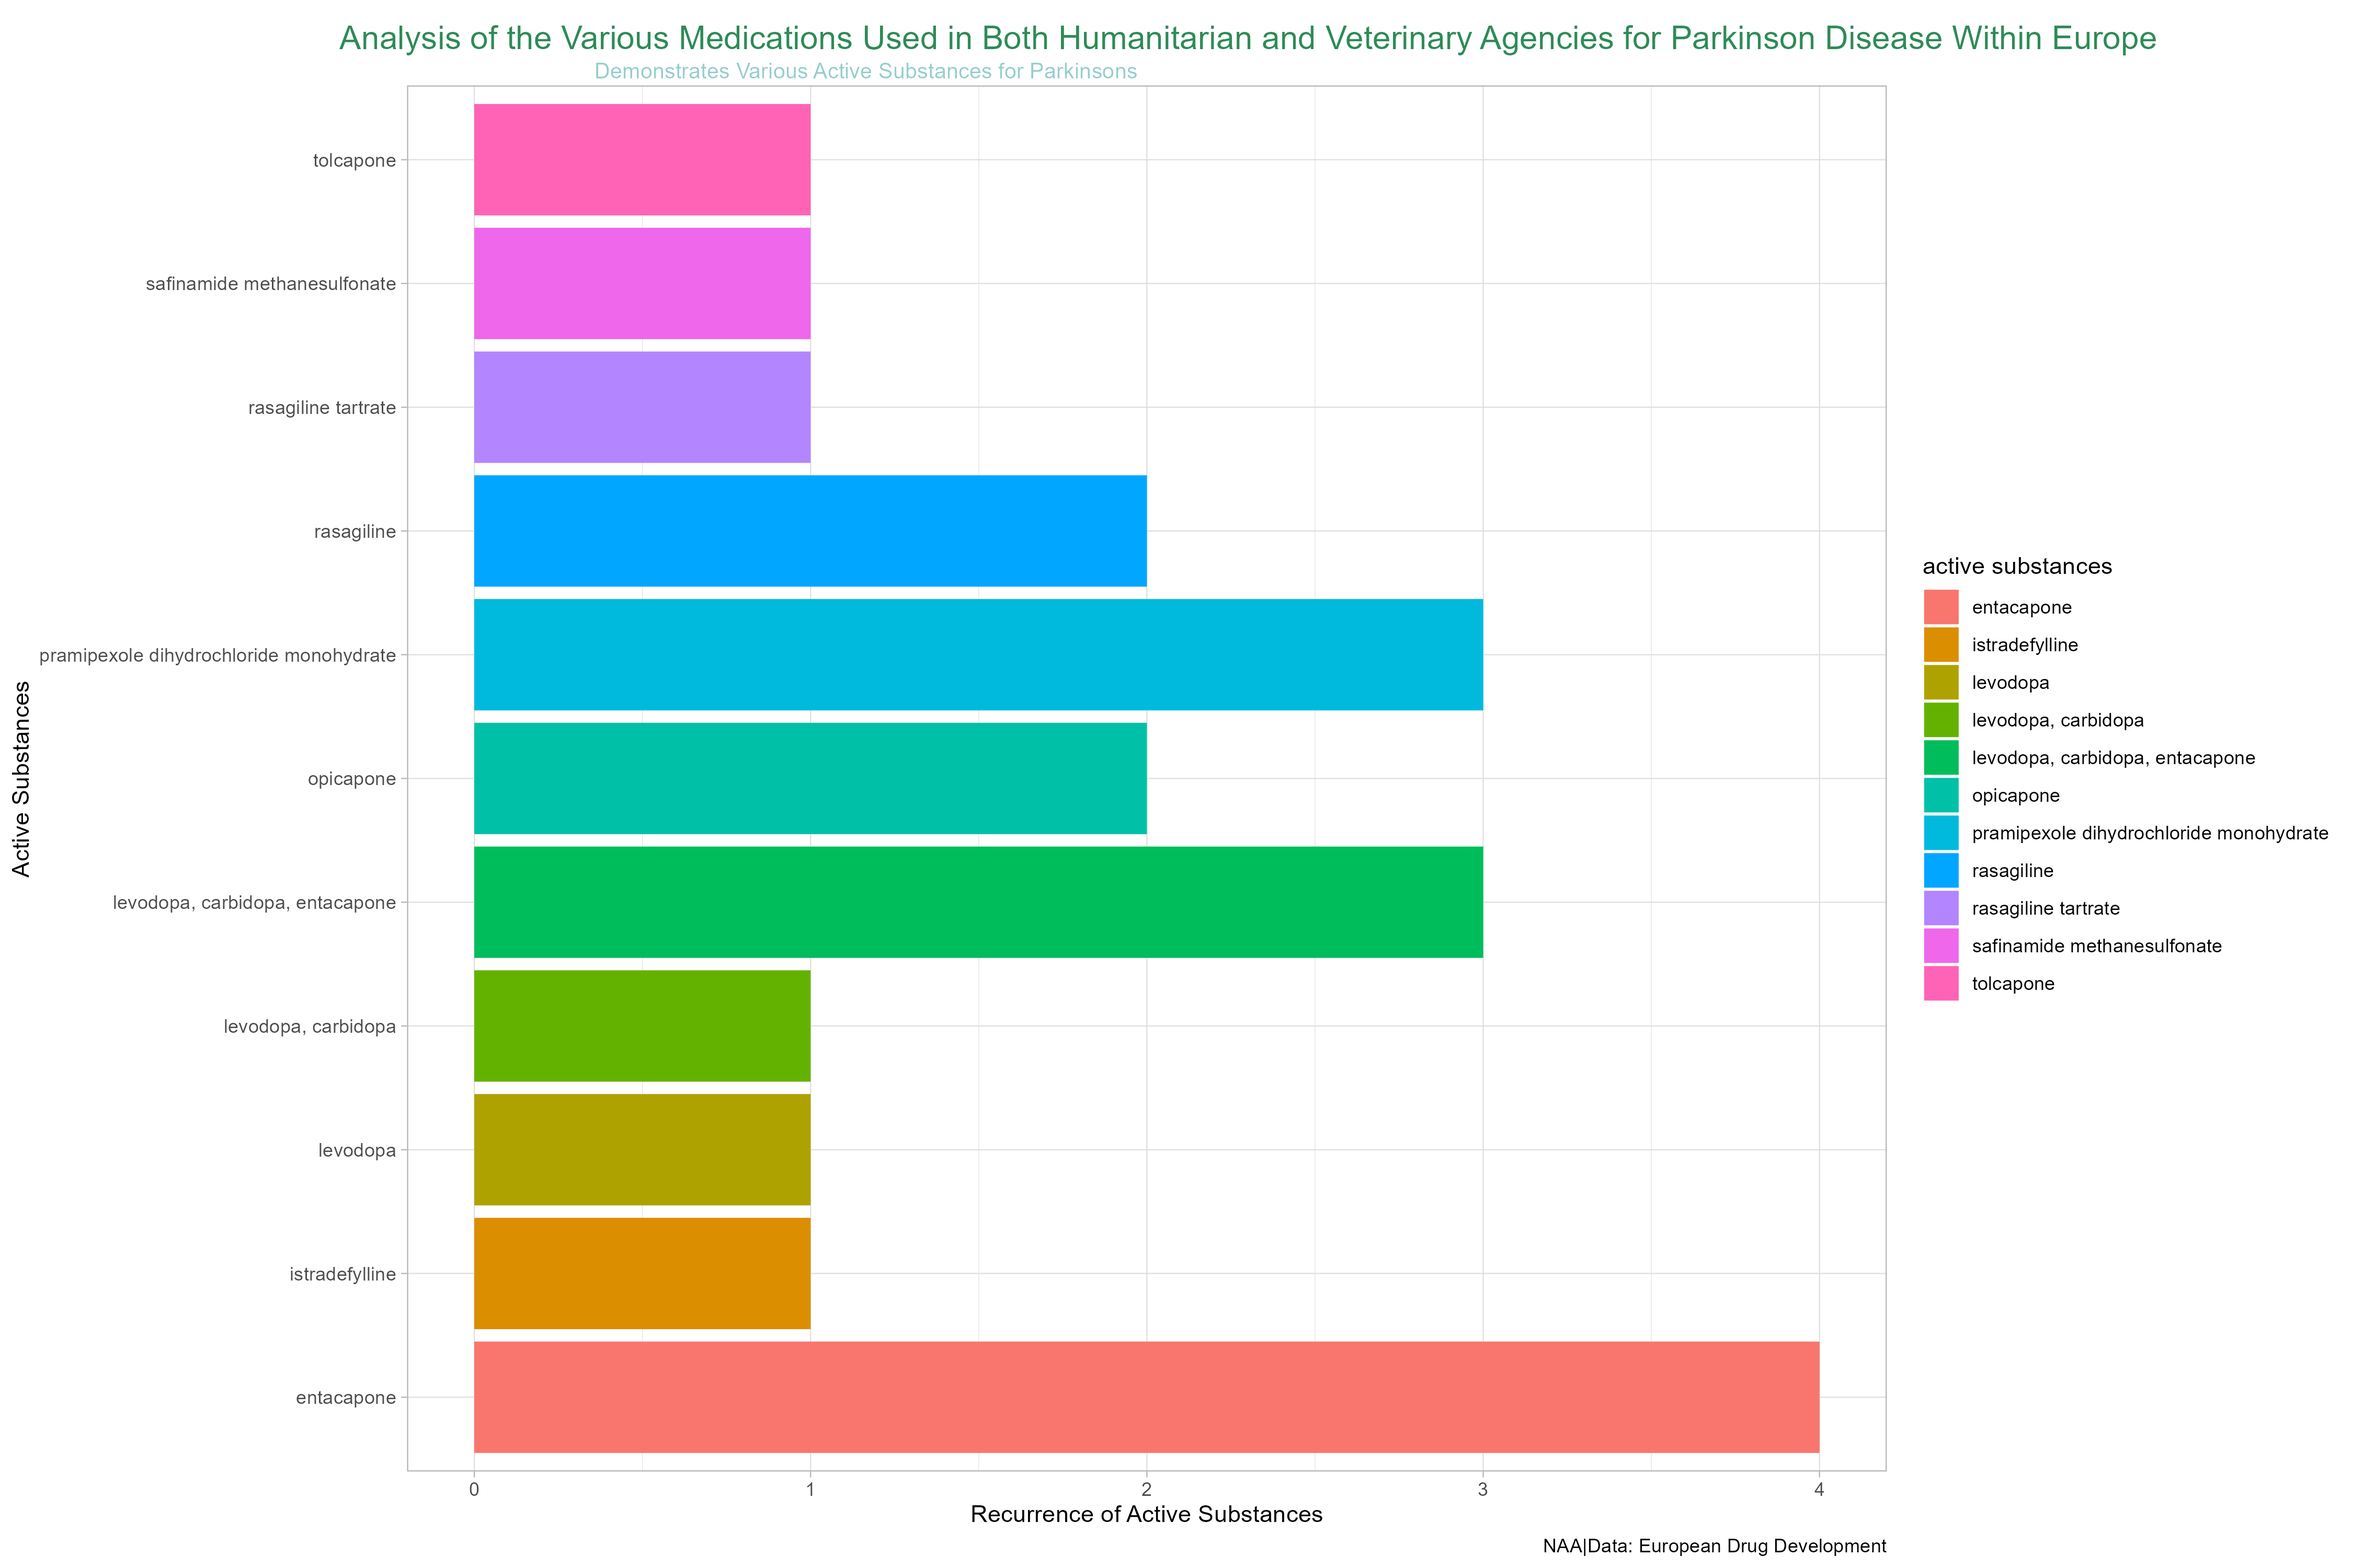
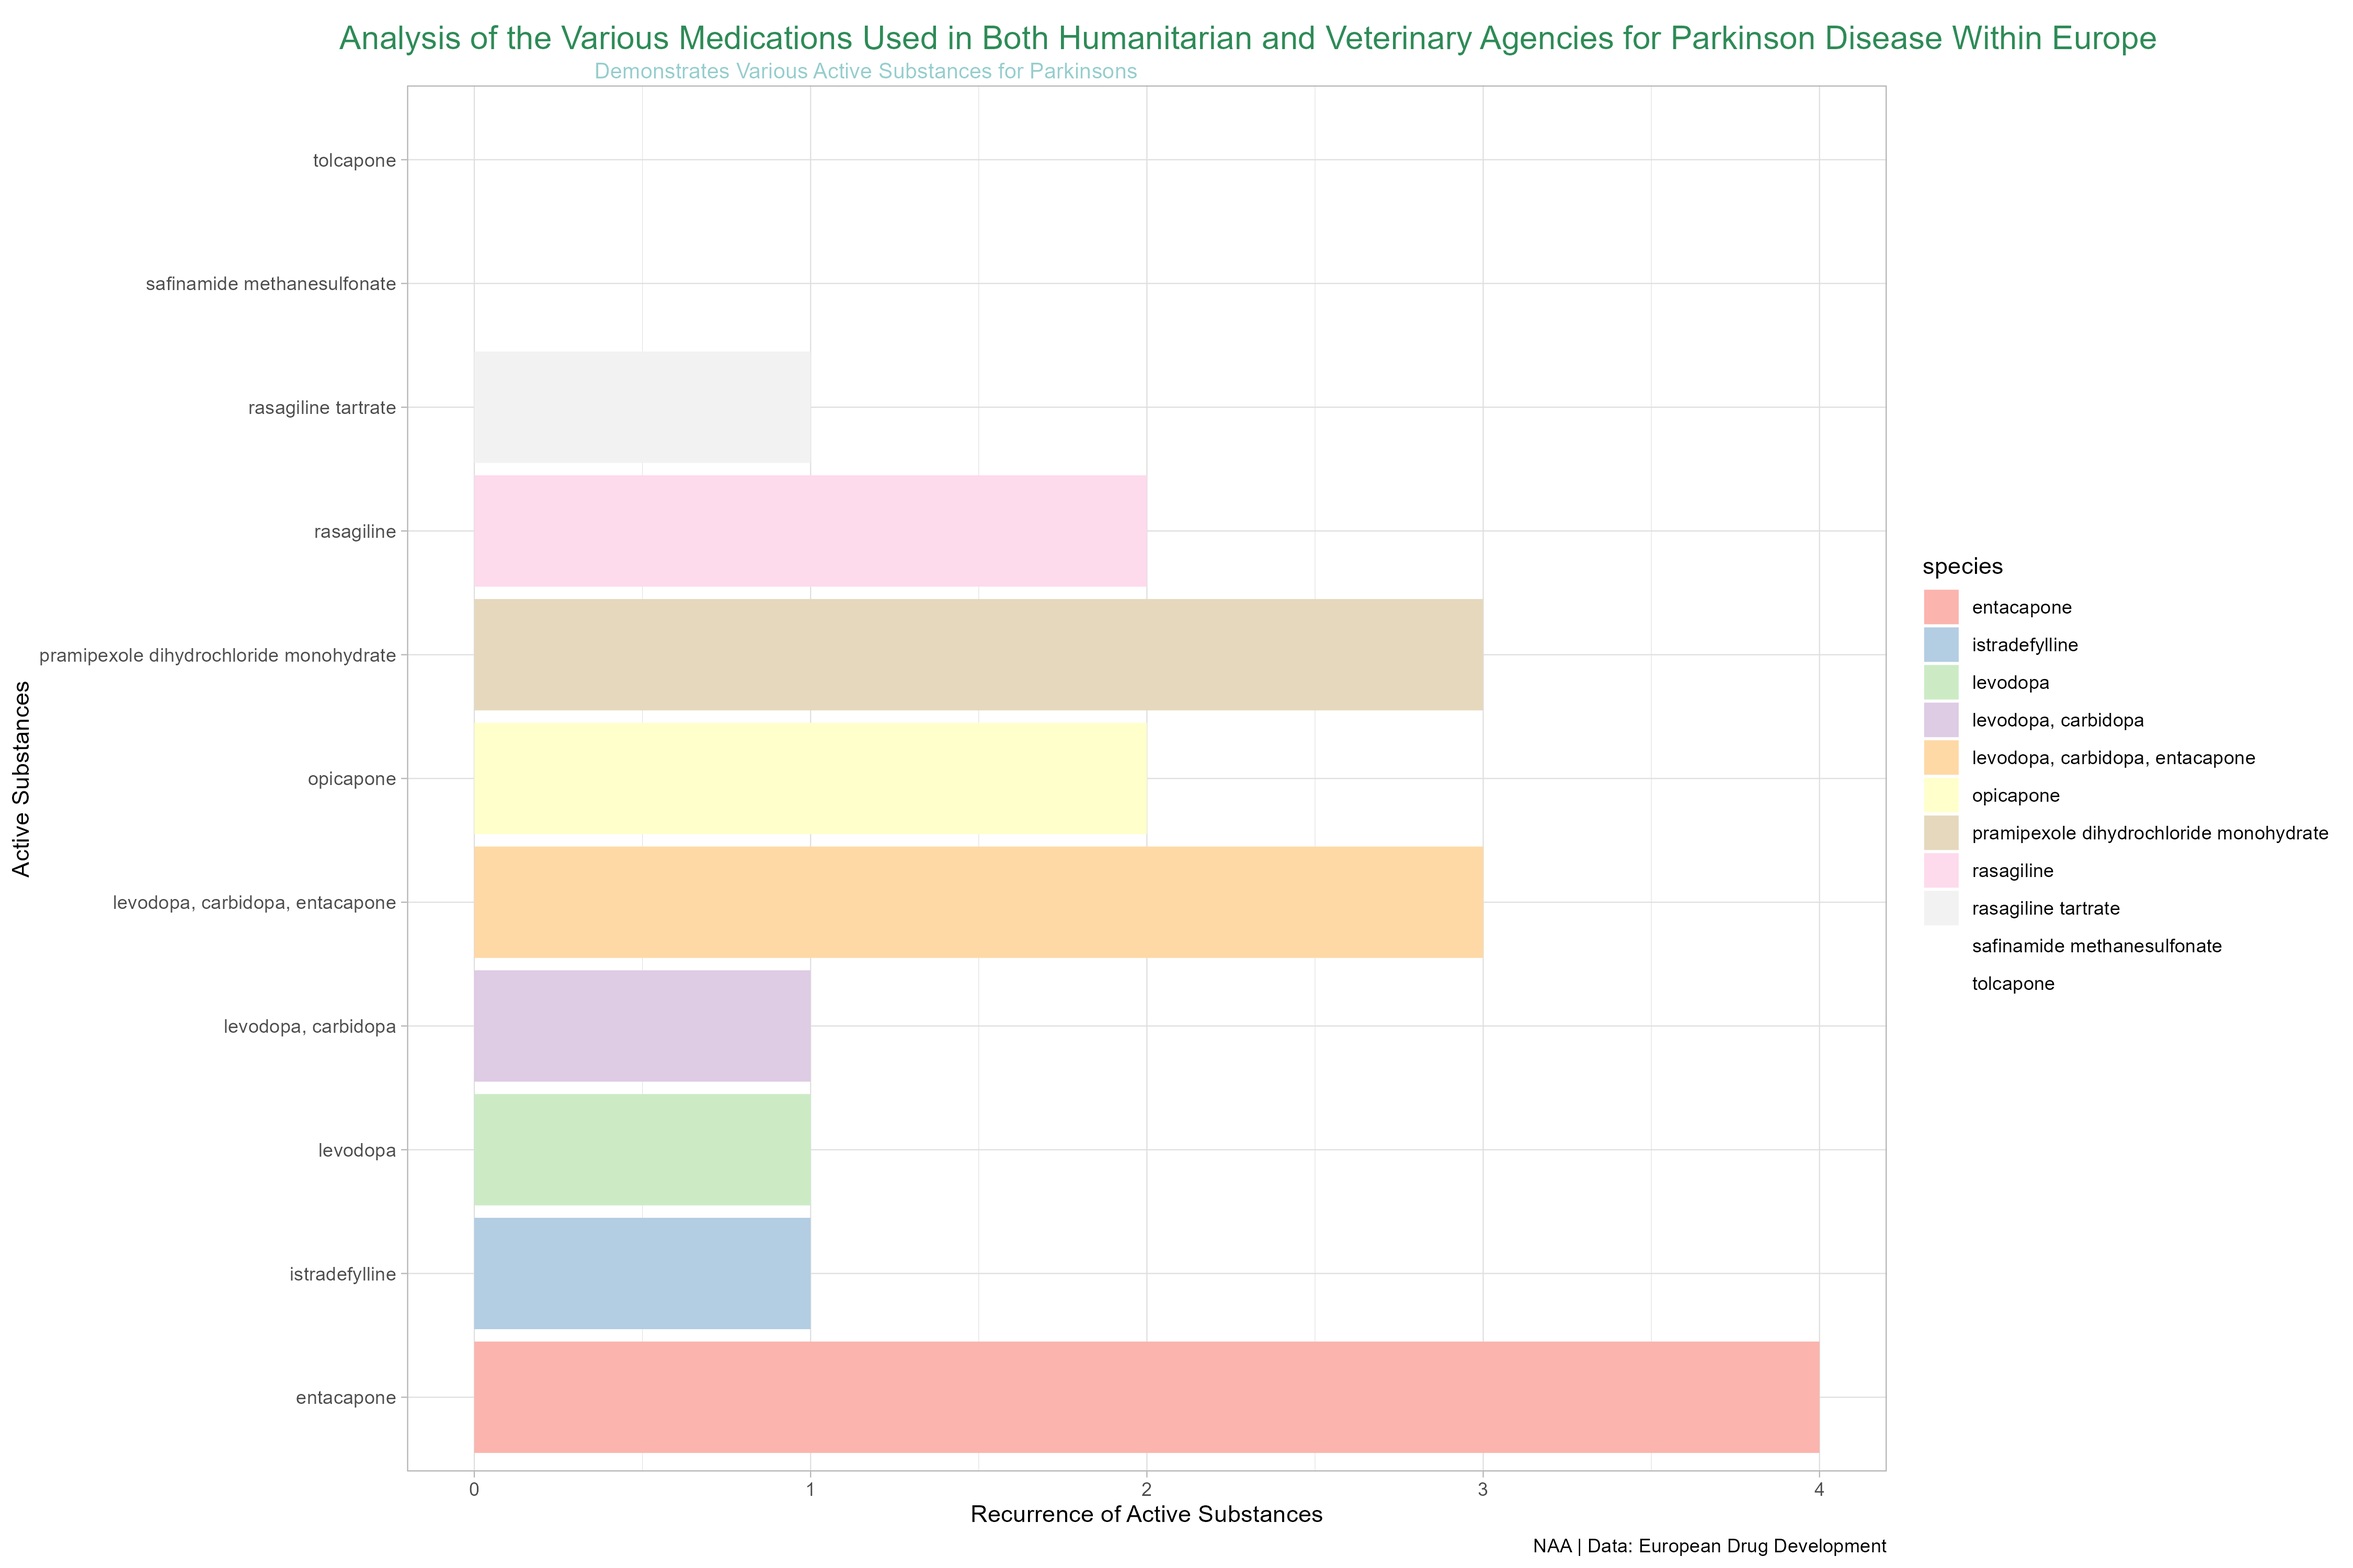
updated plot and script, finished week 7's tidy tuesday or tidy tuesday #5

Changed region(s): [[0.1867, 0.062, 0.7778, 0.93], [0.8089, 0.372, 0.84, 0.651], [0.84, 0.341, 0.8711, 0.372]]

diff --git a/Fifth Tidy Tuesday/Script/Drug-Script.tex b/Fifth Tidy Tuesday/Script/Drug-Script.tex
@@ -218,18 +218,24 @@ past 20 years.
   \FunctionTok{labs}\NormalTok{(}
     \AttributeTok{title =} \FunctionTok{str\_wrap}\NormalTok{(}\StringTok{"Analysis of the Various Medications Used in Both Humanitarian and Veterinary Agencies for Parkinson Disease Within Europe"}\NormalTok{,}\DecValTok{2500}\NormalTok{),}\CommentTok{\# just the title}
     \AttributeTok{subtitle =} \FunctionTok{str\_wrap}\NormalTok{ (}\StringTok{"Demonstrates Various Active Substances for Parkinsons"}\NormalTok{,}\DecValTok{150}\NormalTok{),   }\CommentTok{\# subtitle}
-    \AttributeTok{caption =} \StringTok{" NAA|Data: European Drug Development"}\NormalTok{, }\CommentTok{\# caption}
+    \AttributeTok{caption =} \StringTok{" NAA | Data: European Drug Development"}\NormalTok{, }\CommentTok{\# caption}
     \AttributeTok{x =} \StringTok{" Active Substances "}\NormalTok{, }\CommentTok{\# x axis}
     \AttributeTok{y =}\StringTok{"Recurrence of Active Substances"}\NormalTok{, }\CommentTok{\# y axis}
     \AttributeTok{fill =}\StringTok{"active substances"}\NormalTok{) }\SpecialCharTok{+} \CommentTok{\# fill active substances}
+  \FunctionTok{scale\_fill\_brewer}\NormalTok{(}\AttributeTok{palette =} \StringTok{"Pastel1"}\NormalTok{, }\AttributeTok{name =} \StringTok{"species"}\NormalTok{) }\SpecialCharTok{+}   \CommentTok{\# Color scheme for the categories}
   \FunctionTok{coord\_flip}\NormalTok{() }\SpecialCharTok{+} \CommentTok{\# invert the x axis and y axis to read the substances}
   \FunctionTok{scale\_size}\NormalTok{(}\AttributeTok{range =} \FunctionTok{c}\NormalTok{(.}\DecValTok{1}\NormalTok{, .}\DecValTok{2}\NormalTok{)) }\SpecialCharTok{+} \CommentTok{\# small scale}
   \FunctionTok{theme\_light}\NormalTok{() }\SpecialCharTok{+} \CommentTok{\# very light white theme}
-  \FunctionTok{theme}\NormalTok{(}\AttributeTok{plot.title =} \FunctionTok{element\_text}\NormalTok{(}\AttributeTok{hjust =}\NormalTok{ .}\DecValTok{2}\NormalTok{,}\AttributeTok{vjust =} \SpecialCharTok{{-}}\FloatTok{1.20}\NormalTok{, }\AttributeTok{size =} \DecValTok{15}\NormalTok{, }\AttributeTok{color =} \StringTok{"seagreen4"}\NormalTok{), }\CommentTok{\# changes the colro and size of the title}
+  \FunctionTok{theme}\NormalTok{(}\AttributeTok{plot.title =} \FunctionTok{element\_text}\NormalTok{(}\AttributeTok{hjust =}\NormalTok{ .}\DecValTok{2}\NormalTok{,}\AttributeTok{vjust =} \SpecialCharTok{{-}}\FloatTok{1.20}\NormalTok{, }\AttributeTok{size =} \DecValTok{15}\NormalTok{, }\AttributeTok{color =} \StringTok{"seagreen4"}\NormalTok{), }\CommentTok{\# changes the color and size of the title}
         \AttributeTok{plot.subtitle =} \FunctionTok{element\_text}\NormalTok{(}\AttributeTok{hjust =}\NormalTok{ .}\DecValTok{2}\NormalTok{,}\AttributeTok{vjust =} \SpecialCharTok{{-}}\FloatTok{1.20}\NormalTok{, }\AttributeTok{size =} \DecValTok{10}\NormalTok{, }\AttributeTok{color =} \StringTok{"paleturquoise3"}\NormalTok{), }\CommentTok{\# changes the color and size of the subtitle}
         \AttributeTok{plot.background =} \FunctionTok{element\_rect}\NormalTok{(}\AttributeTok{fill =} \StringTok{\textquotesingle{}white\textquotesingle{}}\NormalTok{, }\AttributeTok{color =} \StringTok{\textquotesingle{}white\textquotesingle{}}\NormalTok{)) }\CommentTok{\# just to fill in the background, behind the gridlines}
 \end{Highlighting}
 \end{Shaded}
+
+\begin{verbatim}
+## Warning in RColorBrewer::brewer.pal(n, pal): n too large, allowed maximum for palette Pastel1 is 9
+## Returning the palette you asked for with that many colors
+\end{verbatim}
 
 \includegraphics{../Outputs/unnamed-chunk-3-1.pdf}
 
@@ -239,6 +245,11 @@ past 20 years.
        \AttributeTok{width =} \DecValTok{15}\NormalTok{, }\AttributeTok{height =} \DecValTok{10}\NormalTok{)}\CommentTok{\# adjust size of graph in inches}
 \end{Highlighting}
 \end{Shaded}
+
+\begin{verbatim}
+## Warning in RColorBrewer::brewer.pal(n, pal): n too large, allowed maximum for palette Pastel1 is 9
+## Returning the palette you asked for with that many colors
+\end{verbatim}
 
 ```
 
